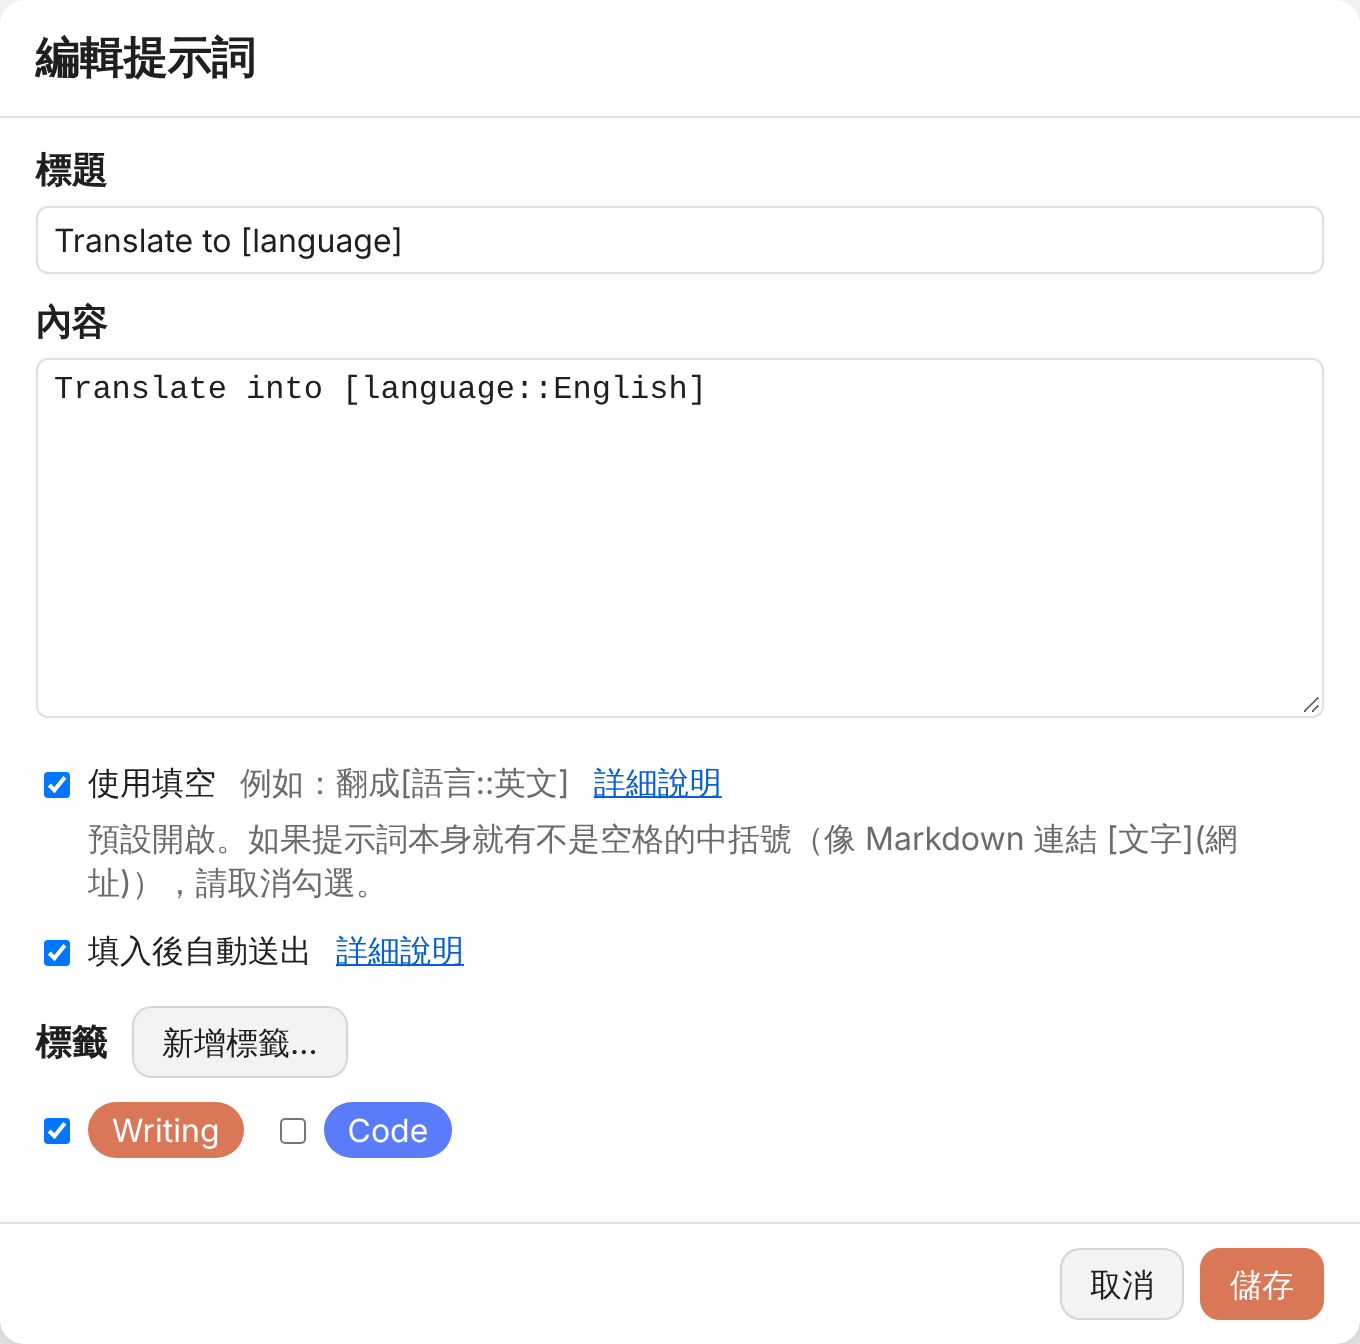
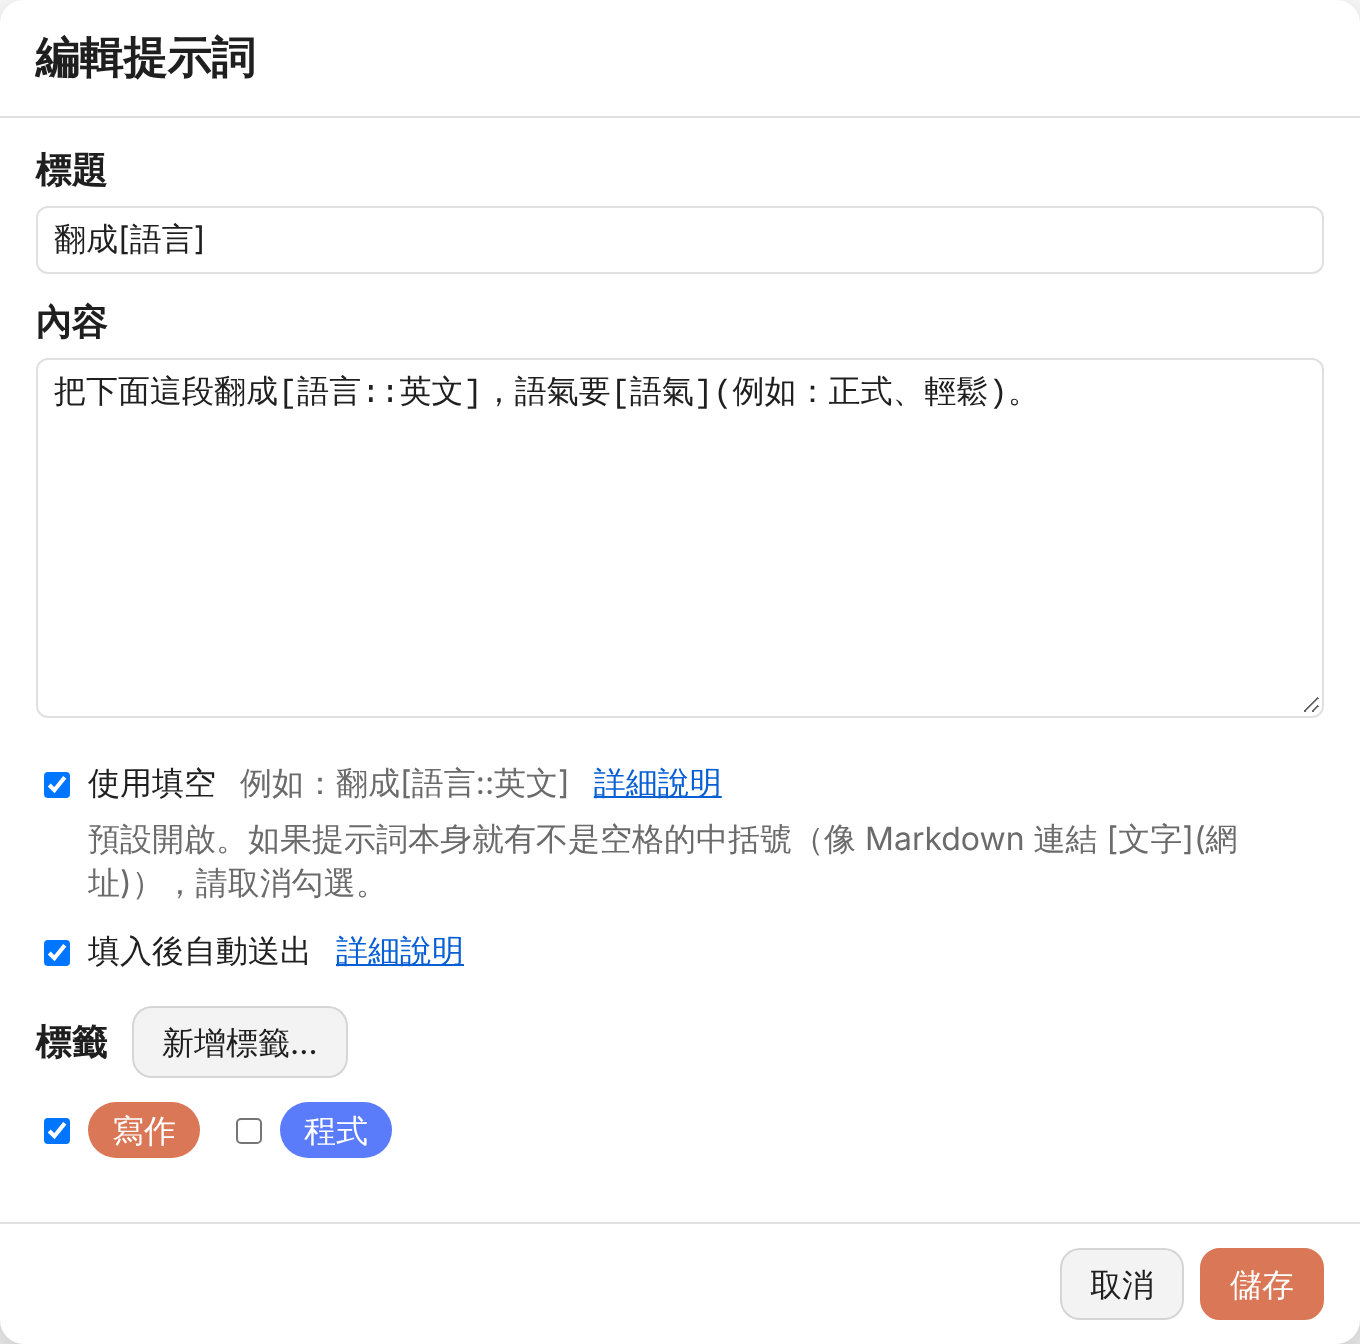
README 截圖：中文版改用中文示範提示詞與標籤
Claude-Session: https://claude.ai/code/session_01EjuJ7uu9zEeY1qC176YcVq

diff --git a/tests/shot.js b/tests/shot.js
@@ -5,13 +5,19 @@ const PW=require('/home/claude/.npm-global/lib/node_modules/playwright');const f
 const path=require('path');const SRC=fs.readFileSync(path.join(__dirname,'..','prompt_popout.user.js'),'utf8');const OUT=path.join(__dirname,'..','docs','img');
 const html=`<!doctype html><style>body{margin:0;background:rgb(250,249,245);font:16px sans-serif}.w{padding:330px 40px 40px 60px}.card{position:relative;border-radius:15.75px;background:#fff;padding:14px 16px;box-sizing:border-box;box-shadow:0 0 0 1px rgba(31,30,29,.15),0 4px 20px rgba(0,0,0,.035)}#prompt-textarea{min-height:56px;outline:none;color:#999}</style>
 <div class=w><div class=card><div id=prompt-textarea class=ProseMirror contenteditable=true>How can I help you today?</div></div></div>`;
-const data={'pp.tags':[{id:'1',name:'Writing',bg:'#d97757',fg:'#ffffff'},{id:'2',name:'Code',bg:'#5b7cfa',fg:'#ffffff'}],
-'pp.prompts':[{id:'a',title:'Proofread',text:'Proofread:',fill:false,autoSend:true,tagIds:['1']},{id:'b',title:'Translate to [language]',text:'Translate into [language::English]',fill:true,autoSend:true,tagIds:['1']},
-{id:'c',title:'Explain this code',text:'Explain',fill:false,autoSend:false,tagIds:['2']},{id:'d',title:'Write unit tests',text:'t',fill:false,autoSend:true,tagIds:['2']}]};
+// 示範資料跟介面同語言：中文截圖用中文提示詞與標籤，英文截圖用英文的
+const DATA={
+'zh-TW':{'pp.tags':[{id:'1',name:'寫作',bg:'#d97757',fg:'#ffffff'},{id:'2',name:'程式',bg:'#5b7cfa',fg:'#ffffff'}],
+'pp.prompts':[{id:'a',title:'校對錯字',text:'幫我找出下面這段的錯字：',fill:false,autoSend:true,tagIds:['1']},{id:'b',title:'翻成[語言]',text:'把下面這段翻成[語言::英文]，語氣要[語氣](例如：正式、輕鬆)。',fill:true,autoSend:true,tagIds:['1']},
+{id:'c',title:'解釋這段程式碼',text:'逐行解釋下面的程式碼：',fill:false,autoSend:false,tagIds:['2']},{id:'d',title:'寫單元測試',text:'幫下面的函式寫單元測試：',fill:false,autoSend:true,tagIds:['2']}]},
+'en-US':{'pp.tags':[{id:'1',name:'Writing',bg:'#d97757',fg:'#ffffff'},{id:'2',name:'Code',bg:'#5b7cfa',fg:'#ffffff'}],
+'pp.prompts':[{id:'a',title:'Proofread',text:'Find the typos in the text below:',fill:false,autoSend:true,tagIds:['1']},{id:'b',title:'Translate to [language]',text:'Translate the text below into [language::English], in a [tone](e.g. formal, casual) tone.',fill:true,autoSend:true,tagIds:['1']},
+{id:'c',title:'Explain this code',text:'Explain the code below line by line:',fill:false,autoSend:false,tagIds:['2']},{id:'d',title:'Write unit tests',text:'Write unit tests for the function below:',fill:false,autoSend:true,tagIds:['2']}]},
+};
 (async()=>{const b=await PW.chromium.launch();
 for(const loc of ['zh-TW','en-US']){const p=await (await b.newContext({viewport:{width:520,height:470},deviceScaleFactor:2,locale:loc})).newPage();
 await p.route('**/*',r=>r.fulfill({contentType:'text/html',body:html}));await p.goto('https://chatgpt.com/');
-await p.evaluate(d=>{window.__store=d;window.GM_getValue=(k,v)=>k in __store?__store[k]:v;window.GM_setValue=(k,v)=>__store[k]=v;window.__menu=[];window.GM_registerMenuCommand=(n,f)=>__menu.push(f);window.GM_info={script:{version:'1'}};},data);
+await p.evaluate(d=>{window.__store=d;window.GM_getValue=(k,v)=>k in __store?__store[k]:v;window.GM_setValue=(k,v)=>__store[k]=v;window.__menu=[];window.GM_registerMenuCommand=(n,f)=>__menu.push(f);window.GM_info={script:{version:'1'}};},DATA[loc]);
 await p.evaluate(s=>(0,eval)(s),SRC);await p.waitForTimeout(1200);
 const r=await p.evaluate(()=>document.querySelector('.card').getBoundingClientRect().toJSON());
 await p.mouse.move(r.left+16,r.top+40);await p.waitForTimeout(600);
